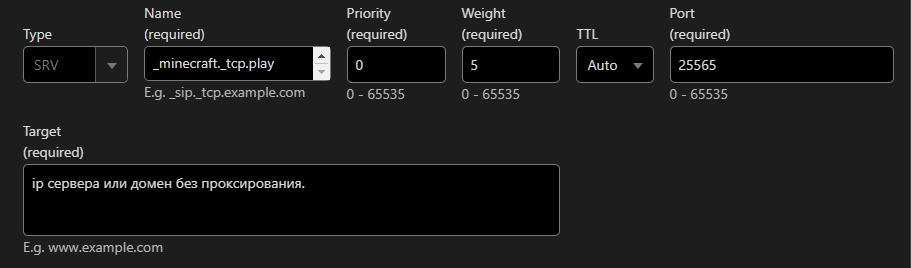
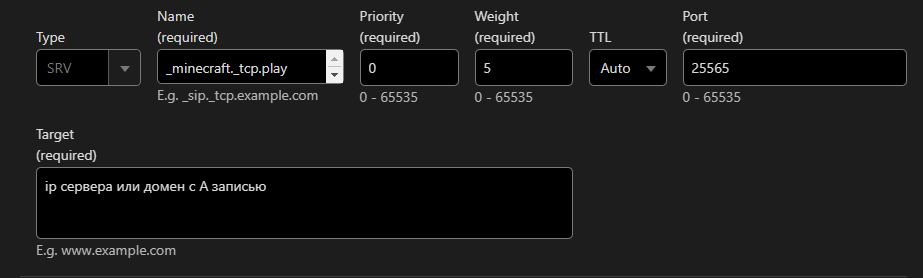
Оказалось и правда таргет может быть любой

diff --git a/docs/basic/cloudflare.md b/docs/basic/cloudflare.md
@@ -24,6 +24,6 @@
 - `Weight` - оставляем без изменений
 - `TTL` - оставляем без изменений
 - `Port` - указываем порт на котором работает сервер
-- `Target` - ip сервера или домен без проксирования.
+- `Target` - ip сервера или домен c A записью
 
 Сохраняем и в игре указывайте адрес подключения полный домен **БЕЗ ПОРТА**.
